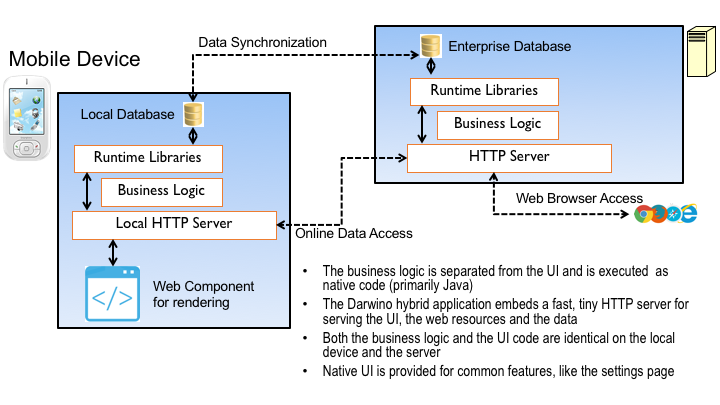
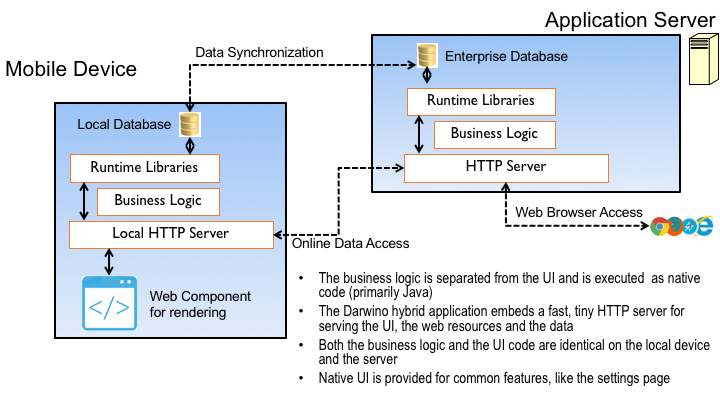
Edits and new material based on chat with Philippe.

Changed region(s): [[0.0, 0.0296, 1.0, 0.9481]]

diff --git a/Developer Guide/Darwino DB API 4. Cursors and Queries.md b/Developer Guide/Darwino DB API 4. Cursors and Queries.md
@@ -107,9 +107,9 @@ The count() method will return the number of entries in the cursor. Behind the s
 The countWithLimit() method behaves similarly, but uses the limit parameter. If the actual count is greater than the specified limit, then the limit is returned.
 
 ### Categorization and Aggregation
-Categorization is a means to group documents, and, secondarily, to calculate or aggregate on the groups.
+Categorization is a means to group documents, and, secondarily, to calculate or aggregate on the groups. Categorization organizes documents in groups based on shared key values, determined by the orderBy() of a cursor, in the Darwino API. Categorization is completely dynamic; being based on the sort order, which is not fixed, categorization can be calculated on the fly.
 
-Categorization is based on the ORDER BY clause that produced the result set. There can be up to as many categories as there are sorted fields in the ORDER BY. If you have four levels in the sorting, then you can categorize on the first, or the first and second, or the first three, and so on. When categorizing, it isn't required that you start with the first sorted field; you can start with a subsequent sorted field instead. However, once you've started categorizing on multiple fields you cannot skip a sorted field and continue. That is to say, it is possible to categorize on the second, third, and fourth sorted fields, but not on just the second and fourth.
+There can be up to as many categories as there are sorted fields. If you have four levels in the sorting, then you can categorize on the first, or the first and second, or the first three, and so on. When categorizing, it isn't required that you start with the first sorted field; you can start with a subsequent sorted field instead. However, once you've started categorizing on multiple fields you cannot skip a sorted field and continue. That is to say, it is possible to categorize on the second, third, and fourth sorted fields, but not on just the second and fourth.
 
 To calculate aggregate data, such as average, minimum, and maximum, pass an aggregate query to the cursor. For example:
 ```
@@ -119,7 +119,15 @@ Cursor c = store.openCursor()
 
 In this example, we count how many times the field "@manufacturer" is not null for all of the documents belonging to each category and we return the result as "Count". For "Sum", we calculate the sum of the field "@released" for every document in the category, and return the result as "Sum". We also calculate the average of the "@released" field as "Avg", and we select and return the minimum and maximum values for that field as well.
 
-See [Appendix 3. The Query Language](Appendix 3. The Query Language.md) for details on categorization and aggregation in Darwino.
+Categorization adds entries to the result to define the categories. If an entry has a "category" value of true, then it is not a document... it is a category entry. The "categoryCount" value, a number, contains the level of categorization for the entry in a multi-category result: top level would be categoryLevel of 1, the next level down would be categoryLevel of 2, and so on.
+
+The .categories(int nCat) method takes as its parameter the number of category levels to apply, based on the orderBy() fields.
+
+When categorizing, it is possible to request that the documents not be extracted in the cursor; in this case, the result will consist only of the category entries.
+
+Another option is to extract categories while skipping the highest level categories. For example, extract two categories, but start at the second-level category, returning levels two and three.
+
+
 
 ## Optimizing queries
 The query language is robust, with a lot of operators, and is optimized for the underlying database system. It will attempt to use only native database functions when constructing its SQL; if necessary functions are not supported by the database, it will still use those that ARE supported for parts of the query. For example, if there is an “AND” in the query, and only one condition is directly supported by the database, the query language will execute that part of the query first and only then iterate through the results one-by-one.

diff --git a/Developer Guide/Appendix 2. Mapping between a Darwino DB and a relational database.md b/Developer Guide/Appendix 2. Mapping between a Darwino DB and a relational database.md
@@ -61,7 +61,7 @@ The prefix of Darwino's table names is the name of the Darwino database. This re
 
  - _dov table: This stores the list of fields extracted from documents. The extracted data is stored in one of four columns, one for each possible data type; they are named ftxt, fnum, fbol, and fdat.
 
- - _idx: This is where in indexes are stored.
+ - _idx: This is where indexes are stored. There are entries for each document, and for each entry there are stored keys and values.
 
  - _idv: Like the _dov table, but for the index level, because we can store fields at the index level.
 
@@ -100,7 +100,7 @@ Physically, a store is nothing; it is just a concept. It is actually just a logi
 
 Stores have several options: 
  - setAnonymousSocial(boolean anonymousSocial) – Enabling this allows tracking of the social activities of the anonymous user; for example, tracking when anonymous reads a document. This defaults to false, since there are few cases where it would be desired.
- - setFTSearch(_FtSearch ftSearch) – Specifies which fields in the JSON document are being indexed.
+ - setFTSearch(_FtSearch ftSearch) – Specifies what data should be extracted from the JSON so it can be fulltext-searchable. If, for example, you might specify "$" if you want to index the entire document, or just the JSON path for the field "Title" if you want that field to be the only indexed data.
 	
  - setFtSearchEnabled(boolean fulltextEnabled) – Enables full text search of the documents in the store. Darwino uses the full text search engine provided by the host database. This results in maximum performance and low overhead.
 It is possible to test at run time, using the Store-level method isFtSearchEnabled(), whether the database supports full text search, so the UI can be adjusted accordingly.
@@ -132,8 +132,4 @@ In Darwino, an index is the MAP action in MAP/REDUCE. It allows fast access to d
 index.valuesExtract(“\”$\””) will specify the root of the JSON value (the entire document) as the value to extract. This is using JSON Path expressions. 
  
  When specifying the keys, you can specify whether the keys are unique or not. This is done by calling the setUniqueKey(Boolean uniqueKey) method.
- 
-setUpdateWithUserData() specifies whether the index should be updated when a document’s social data, which is stored outside of the document, is changed, even if the document itself has not been changed. An example of this would be if you are tracking ratings for documents and you wish to display the average rating for each document. Rather than recalculate the average every time you query the index, you would store the rating average every time the ratings are changed. By default, the index is not updated when the social data changes.
-
-setUpdateWithUserData() can also be used to store the number of child documents for a parent document. But this is like recalculating the index of a parent document, while a child is updated (parentId). So there is an option to the save() method that forces the parent document, or the sync master, to update as well.
 

diff --git a/Developer Guide/Business APIs 1c. User Service Providers.md b/Developer Guide/Business APIs 1c. User Service Providers.md
@@ -1,4 +1,10 @@
 #User Service Providers
+Darwino has a user directory which functions as the main user directory (Darwino includes a set of main directory implementations via LDAP: IBM Domino, Tivoli Directory Manager, Oracle Directory, and Microsoft Active Directory, plus a native IBM Domino directory implementation). Every user in this directory is identified by a DN. This DN is fixed; it should not change. From this directory you can extract user data, for example the common name of the organization. On top of this directory, you can have user data providers. They provide data on existing users but from a different data source, such as an external LDAP directory, IBM Connections, or Facebook.
+
+Suppose that your main directory is an LDAP directory, but you want to have the users' pictures coming from IBM Connections. You can write a user data provider that will use information you have in your main directory to locate the user in the IBM Connections directory to extract the data you need.
+
+You can have as many user data providers as you want. A Gravatar implementation that can be used as a secondary directory is included with both Darwino Editions. The Darwino Enterprise Edition also includes a provider for IBM Connections.
+
 Directories are made available to the UserService by registering them by name as providers. Registered providers are included when searching via the query() and typeAhead() functions.
 
 It is also possible to get user information from a specific provider. The User object’s getUserData method, given the name of a registered provider, will return a UserData object. The UserData object has a getAttribute() method for retrieving value of the specified attribute, and a getAttributes() method to return all of the User’s attributes.
@@ -8,4 +14,3 @@ For retrieving binary user data, there is the getContent() method which returns 
 Because it is possible to have multiple providers registered, user data may be spread across multiple directories, and there could even be duplications. For example, the user’s photo could exist in multiple providers’ sources. To accommodate this, the findAttribute() and findContent() methods will search exhaustively across all registered providers, starting with the current user object and stopping when they find the specified data. The developer doesn’t have to be concerned about where the data is actually stored.
 
 Another issue that can result from having multiple registered providers is the need to map a user’s identity across providers. The UserProvider object includes the UserIdentityMapper() method, with converts between a user’s DN and the provider’s username format.
-

diff --git a/Developer Guide/Darwino DB API 1. Concepts.md b/Developer Guide/Darwino DB API 1. Concepts.md
@@ -53,6 +53,11 @@ There is an option for the save() method that forces the master document to upda
 
 > Note: While typically it would be, a sync master does not have to be an ancestor of the documents that refer to it as their sync master. There are other relationships besides parent/child that can benefit from the sync master technology; for example, all documents associated with a particular project could be linked in this way, whether or not they are hierarchically related.
 
+####Social Data Updates
+The Store's setUpdateWithUserData() method specifies whether the index should be updated when a document’s social data, which is stored outside of the document, is changed, even if the document itself has not been changed. An example of this would be if you are tracking ratings for documents and you wish to display the average rating for each document. Rather than recalculate the average every time you query the index, you would store the rating average every time the ratings are changed. By default, the index is not updated when the social data changes.
+
+setUpdateWithUserData() can also be used to store the number of child documents for a parent document. But this is like recalculating the index of a parent document, while a child is updated (parentId). So there is an option to the save() method that forces the parent document, or the sync master, to update as well.
+
  
 ####Document security
 Darwino implements multi-level security. You can assign security to the Server object; you can control who can and cannot access the server. At the database level, you can assign an ACL. In the ACL, you can define who can access the database, manage the database, read documents, create documents, delete documents, and edit documents. At the Document level, you can maintain a list of users who can read or read/write the document, within the limits defined by the ACL. For example, if a user is granted only Read access to the database via the ACL, they will be limited to reading a given document even if the document-level security is set to allow Edit rights.

diff --git a/Developer Guide/Darwino DB API 7. Security.md b/Developer Guide/Darwino DB API 7. Security.md
@@ -68,5 +68,8 @@ There is a Java class, SecurityHelper, that can be used to manipulate these fiel
  
 When document security is enabled, Darwino, when composing a SQL query, adds a subquery to exclude what is not allowed to be seen. This incurs a cost. To avoid this when possible, there is a database property indicating whether document security should be enabled. When it is not enabled, generated queries can avoid the step of running the subquery. A result of this is that if the flag is not set, readers and writers on documents will be ignored in all of the database’s stores. Options for this property are: no document security, reader/writer security only, ereader/ewriter security only, and all security features.
 
+###REST Services Restriction
+Even though a particular user has access to a database, you can restrict their access via REST services. For example, in your application you may want to expose a business API; you may want to manipulate and return objects. Physically, they are stored as documents. You might want to expose your objects through REST services, while preventing direct access via the default REST services serving documents; you only want people to go through your API. In this case, you could choose to prevent access to this particular database via REST services. 
+
 ###Dynamic Filtering
 There is a DocumentContentFilter interface for the REST services that allows dynamic filtering of the document data that is being produced, typically for security purposes. Along with that is a feature of the API that allows reconciliation of filtered documents upon save, so that if a section was filtered for presentation, that filtered data is not lost from the document when saving.

diff --git a/Developer Guide/Business APIs 3. Preferences Service.md b/Developer Guide/Business APIs 3. Preferences Service.md
@@ -1,0 +1,46 @@
+#Preferences Service
+
+The Preferences Service is an interface for setting, reading, and removing user and application preferences.
+
+To read a preference, create a PreferencesService object, then call getPreferences(), passing the username and preference name as arguments. Then call get(), with the preference name as the argument.
+
+```
+PreferencesService prefService = Platform.getService(PreferencesService.class);
+
+Preferences p = prefService.getPreferences("user1","pref1");
+
+// This default service has pref1 & pref2 defined, but not pref3
+_formatText("  pref1: {0}",p.get("pref1"));
+_formatText("  pref2: {0}",p.get("pref2"));
+_formatText("  pref3: {0}",p.get("pref3"));
+```
+
+To set a preference value, first get the preference and then call set(), passing the preference name and value as arguments:
+```
+PreferencesService prefService = Platform.getService(PreferencesService.class);
+
+// Preference is set locally in the object
+Preferences p = prefService.getPreferences("user1","myprefs");
+p.set("custom","value 1");
+_formatText("  custom: {0}",p.get("custom"));
+
+// Does not appear because it is not yet saved
+Preferences p2 = prefService.getPreferences("user1","myprefs");
+_formatText("  custom: {0}",p2.get("custom"));
+
+// Save it, and it is now in the DB
+p.save();
+Preferences p3 = prefService.getPreferences("user1","myprefs");
+_formatText("  custom: {0}",p3.get("custom"));
+
+
+```
+
+
+To delete a preference, call deletePreference(), passing the username and preference name as arguments:
+```
+PreferencesService prefService = Platform.getService(PreferencesService.class);
+
+prefService.deletePreferences("user1","myprefs");
+
+```

diff --git a/Developer Guide/Developing a Darwino Mobile Application 1b. Hybrid Applications.md b/Developer Guide/Developing a Darwino Mobile Application 1b. Hybrid Applications.md
@@ -1,5 +1,9 @@
 ##Hybrid applications
-A hybrid app will include all of the Darwino services, including the embedded HTTP server. This is what allows the app to provide a true offline experience with the exact same code running on the server and the mobile device.
+The idea is to have true portability regardless of the device where the application is being executed, and to work seamlessly offline and online. As thsi diagram depcts, the architecture of Darwino on the mobile device and on the application server is identical. They are both running an HTTP server; on the server, it is WebSphere or Tomcat or the equivalent, while on the mobile device it is a lightweight server based on NanoHTTPD. Both sides can run the business logic, written in Java and relying on Darwino's runtime libraries.
+
+The hybrid app running on the mobile device instantiates a web component, but the web component is talking to the local HTTP server. The means that the application is truly portable between the web compoent in the hybrid app and the web browser. There are no differences. This allows Darwino to have a single app run in different platforms without any changes.
+
+Note that the database access is abstracted by the runtime libraries. If you're offline, it wil access the local database on the mobile device, and if you're online it will access the remote database located on the application server. This is completely transparent for your application.
 
 This is better than a straight Apache Cordova application, although this framework can be used if desired.
 

diff --git a/Developer Guide/Appendix 3. The Query Language.md b/Developer Guide/Appendix 3. The Query Language.md
@@ -145,14 +145,3 @@ The aggregate operators ($count, $sum, $avg, $min, and $max) use a JSON path as 
 
 Behind the scenes, Darwino constructs a SQL query that uses the database's native aggregation operators. This is good in terms of efficiency: the document selection, value extraction, and aggregation is done server-side using efficient SQL statements. The database does the work.
 
-##Categorization
-Categorization is a means to organize documents in groups based on shared key values, determined by the orderBy() of a cursor, in the Darwino API. Categorization is completely dynamic; being based on the sort order, which is not fixed, categorization can be calculated on the fly.
-
-Categorization adds entries to the result to define the categories. If an entry has a "category" value of true, then it is not a document... it is a category entry. The "categoryCount" value, a number, contains the level of categorization for the entry in a multi-category result: top level would be categoryLevel of 1, the next level down would be categoryLevel of 2, and so on.
-
-The .categories(int nCat) method takes as its parameter the number of category levels to apply, based on the orderBy() fields.
-
-When categorizing, it is possible to request that the documents not be extracted in the cursor; in this case, the result will consist only of the categories.
-
-Another option is to extract categories while skipping the highest level categories. For example, extract two categories, but start at the second-level category, returning levels two and three.
-

diff --git a/Developer Guide/Business APIs 1a. User Information.md b/Developer Guide/Business APIs 1a. User Information.md
@@ -25,7 +25,7 @@ These methods find the user that best matches the provided ID. Depending on the 
 findUserByLoginID() does not identify a user with certainty; only findUser() can do that.
 
 There are also several functions for returning lists of users:
-- findUsers() returns a list of users based on the provided String array of DNs.
+- findUsers() returns a list of users based on the provided String array of DNs. This is an optimization, reducing the cost of finding multiple users. This is one call for multiple users as opposed to multiple calls, each for a single user.
 - query() takes an LDAP query (allowing ANDs and ORs) and returns a List of all matches across all directories.
 - typeAhead() performs a simple “starts with” or "contains" query, depending on the implementation provided by the driver, and returns a List of all matches across all directories.
 

diff --git a/Developer Guide/Business APIs General Information.md b/Developer Guide/Business APIs General Information.md
@@ -3,4 +3,4 @@ Business APIs
 # General information
 The business APIs are an integral part of the core Darwino environment. These APIs encapsulate a set of services, providing an easy-to-use, platform-independent interface to assist in coding common business application functions. 
 
-There are currently two business APIs: The User Service and the Mail Service. This set of APIs is architected to grow over time. Eventually, it will cover the whole gamut of social services: file sharing, communities, etc...
+There are currently three business APIs: The User Service, the Mail Service, and the Preferences Service. This set of APIs is architected to grow over time. Eventually, it will cover the whole gamut of social services: file sharing, communities, etc...

diff --git a/Developer Guide/SUMMARY.md b/Developer Guide/SUMMARY.md
@@ -50,6 +50,7 @@
       * [User Authentication](Business APIs 1b. User Authentication.md)
       * [User Service Providers](Business APIs 1c. User Service Providers.md)
     * [Mail Service](Business APIs 2. Mail Service.md)
+    * [Preferences Service](Business APIs 3. Preferences Service.md)
 * [Optimizing the Database](Optimizing the database.md)
 * [Appendices](Appendices.md)
     * [Utility Libraries](Appendix 1. Utility Libraries.md)
